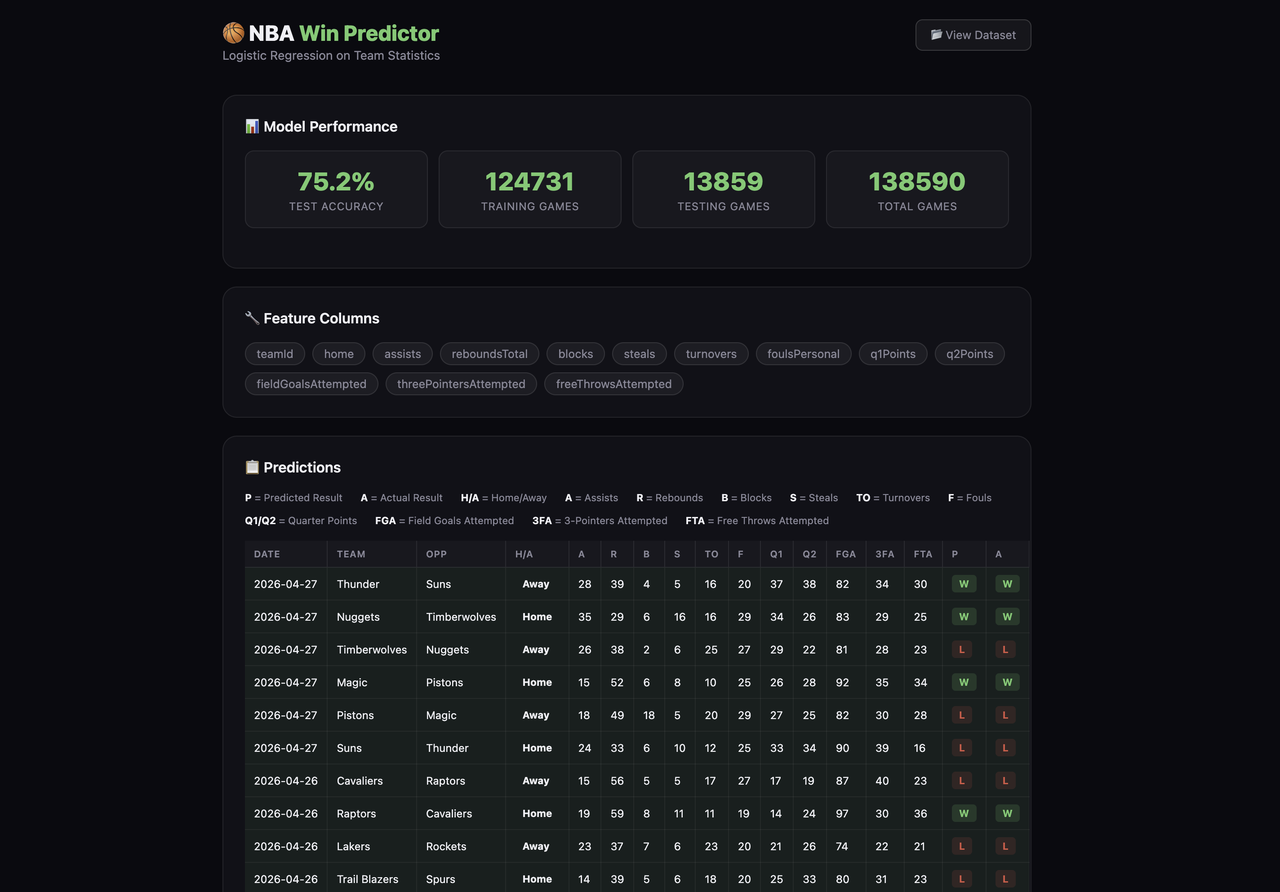
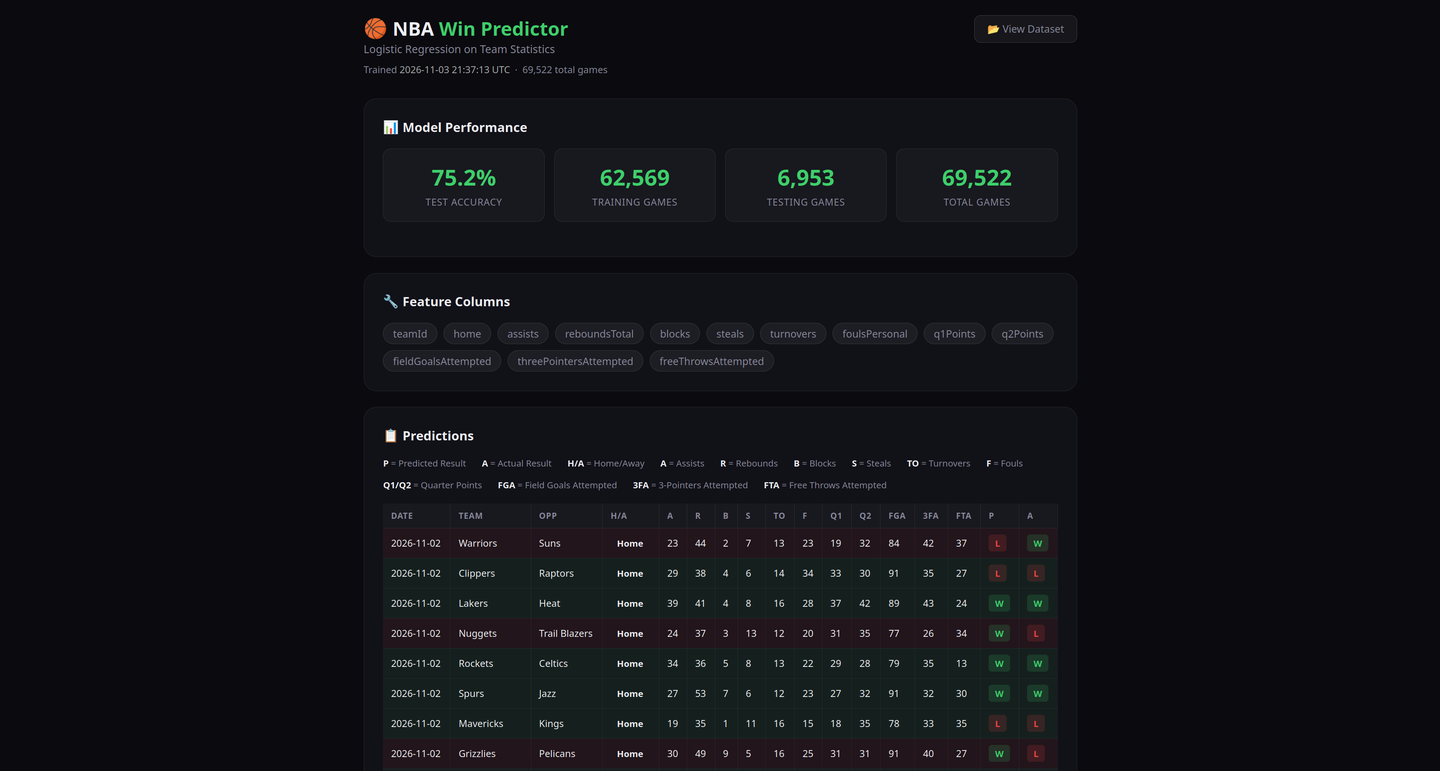
fix: screenshot updates

diff --git a/src/components/Projects.js b/src/components/Projects.js
@@ -66,11 +66,9 @@ function Projects() {
                         src={project.image} 
                         alt={`${project.title} screenshot`}
                         className={`w-full transition-transform duration-500 group-hover:scale-110 ${
-                            project.title === "SupplementDB"
-                                ? "h-64 object-fill object-center"
-                                : project.title === "NBA-AI"
-                                    ? "h-64 object-cover object-top"
-                                    : "h-64 object-contain"
+                            project.title === "SupplementDB" || project.title === "NBA-AI" || project.title === "Testing"
+                                ? "h-64 object-cover object-top"
+                                : "h-64 object-contain"
                         }`}
                     />
                     <div className="absolute inset-0 bg-gradient-to-t from-black/60 to-transparent"></div>
